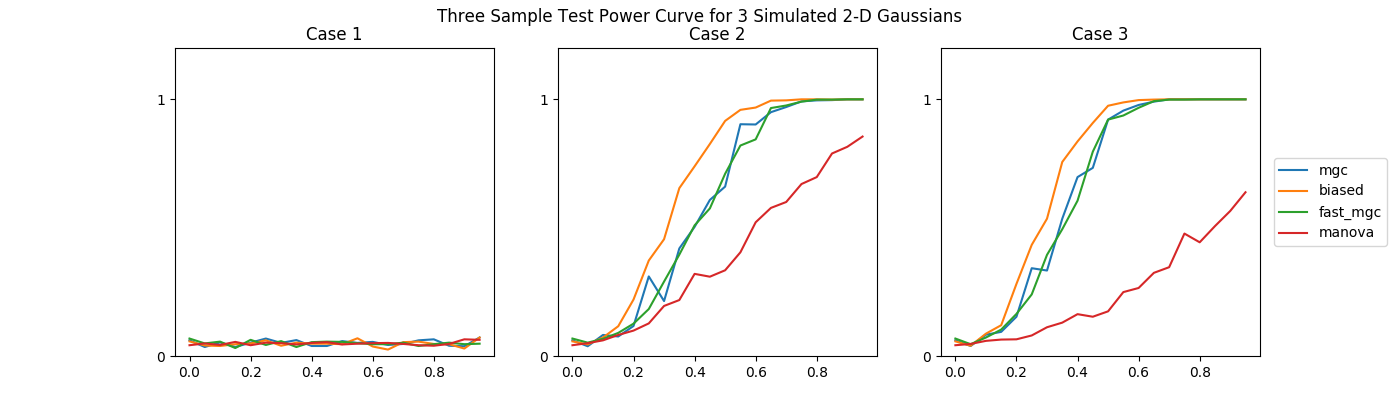
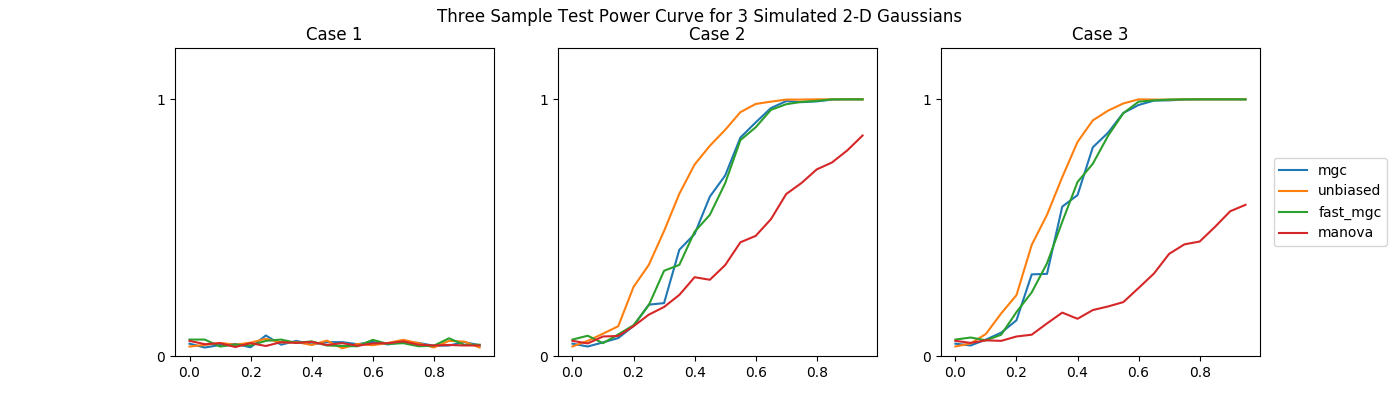
Replace dcorr with mcorr in 3 sample power curves

diff --git a/mgcpy/benchmarks/hypothesis_tests/three_sample_test/generate_power_curve.py b/mgcpy/benchmarks/hypothesis_tests/three_sample_test/generate_power_curve.py
@@ -12,10 +12,10 @@ from mgcpy.independence_tests.manova import Manova
 
 
 def fill_params_dict_list_epsilons(base_path, do_fast_mgc=False):
-    dcorr = DCorr(which_test='biased')
+    mcorr = DCorr(which_test='unbiased')
     mgc = MGC()
     manova = Manova()
-    independence_tests = [manova, dcorr, mgc]
+    independence_tests = [manova, mcorr, mgc]
     three_sample_simulation_types = [1, 2, 3]
 
     params_dict_list = []
@@ -64,7 +64,7 @@ def plot_all_curves(base_path):
     for i, col in enumerate(ax):
         sim_name = simulation_names[simulation_type]
         simulation_type += 1
-        tests = ['mgc', 'biased', 'fast_mgc', 'manova']
+        tests = ['mgc', 'unbiased', 'fast_mgc', 'manova']
         dir_name = os.path.join(base_path, 'python_power_curves_epsilon/')
 
         for test in tests:
